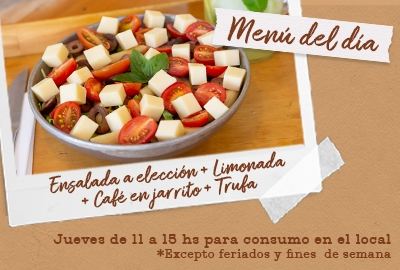
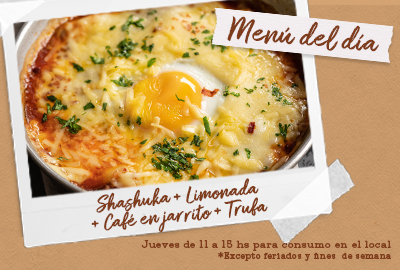
Se agrega google analytics y se cambian imagenes del menu

diff --git a/app/sucursales/page.jsx b/app/sucursales/page.jsx
@@ -1,5 +1,6 @@
 // SucursalesPage.js
-
+import React, { useEffect } from 'react';
+import ReactGA from 'react-ga';
 import Image from 'next/image';
 import './SucursalesPage.css';
 import WhatsApp from '../components/whatsapp/whatsapp';
@@ -11,8 +12,15 @@ import Link from 'next/link';
 // - centrar el main Check!
 // - que la imagen de la sucursal sea de alto como el texto y el mapa juntos. Check!
 // - responsivo Check!
-
 const SucursalesPage = () => {
+  useEffect(() => {
+    
+    ReactGA.initialize('G-1L01SLY277');
+
+    ReactGA.pageview(window.location.pathname + window.location.search);
+    
+  }, []);
+
   const sucursales = [
     {
       name: "consti",

diff --git a/app/page.jsx b/app/page.jsx
@@ -1,3 +1,6 @@
+"use client";
+import React, { useEffect } from 'react';
+import ReactGA from 'react-ga';
 import Image from 'next/image';
 import WelcomeComponent from './components/welcome/welcome';
 import SocialMediaTitle from './components/social/social-home';
@@ -12,6 +15,13 @@ import MenuPage from './components/carousel/menu';
 import Gallery from './components/gallery/gallery.js';
 
 export default function HomePage() {
+  useEffect(() => {
+    
+    ReactGA.initialize('G-1L01SLY277');
+
+    ReactGA.pageview(window.location.pathname + window.location.search);
+  }, []);
+
   return (
     <main >
       <div className="banner">

diff --git a/app/contacto/page.jsx b/app/contacto/page.jsx
@@ -1,4 +1,6 @@
 "use client";
+import React, { useEffect } from 'react';
+import ReactGA from 'react-ga';
 import Image from "next/image";
 import FormContact from "./formContact/formContact";
 import Banner from "public/banner_contacto.png";
@@ -12,6 +14,13 @@ import { yupResolver } from "@hookform/resolvers/yup";
 import { Box, Container } from "@mui/material";
 
 export default function ContactoPage() {
+  
+  useEffect(() => {
+    
+    ReactGA.initialize('G-1L01SLY277');
+
+    ReactGA.pageview(window.location.pathname + window.location.search);
+  }, []);
 
   const method = useForm({
     resolver: yupResolver(contactSchema),

diff --git a/app/components/carousel/menu.jsx b/app/components/carousel/menu.jsx
@@ -39,11 +39,11 @@ const MenuPage = () => {
     },
     {
       name: "jueves",
-      mobileImage: "jueves-mobile.png",
+      mobileImage: "jueves-mobile.jpg",
     },
     {
       name: "viernes",
-      mobileImage: "viernes-mobile.png",
+      mobileImage: "viernes-mobile.jpg",
     },
     {
       name: "eventos-carrusel",
